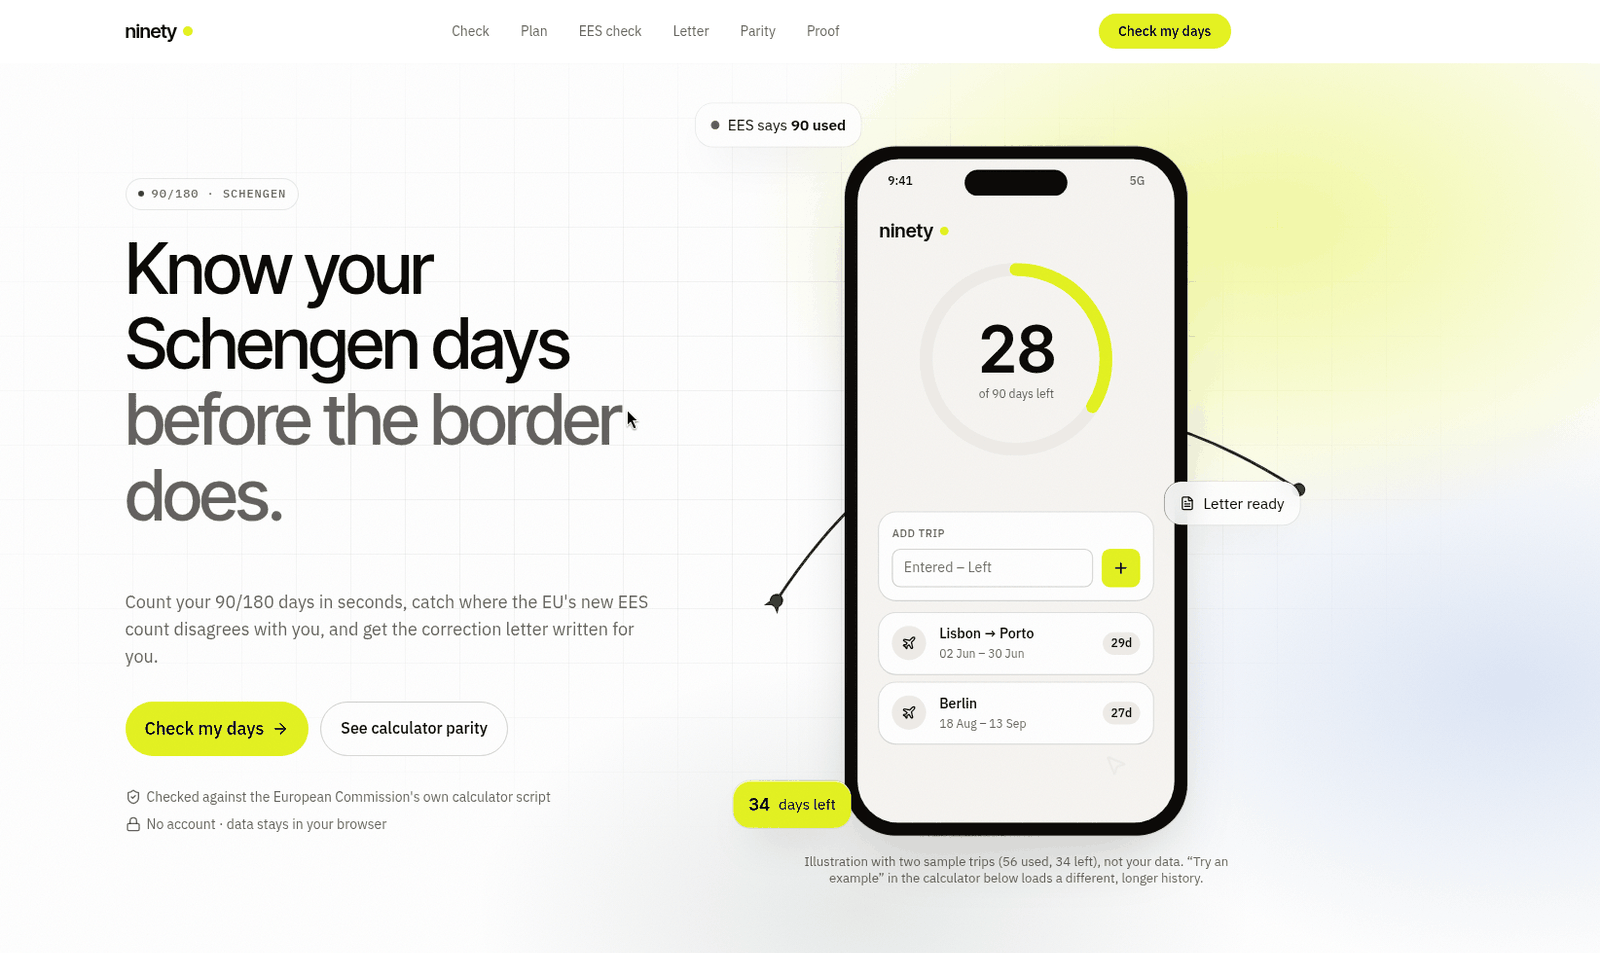
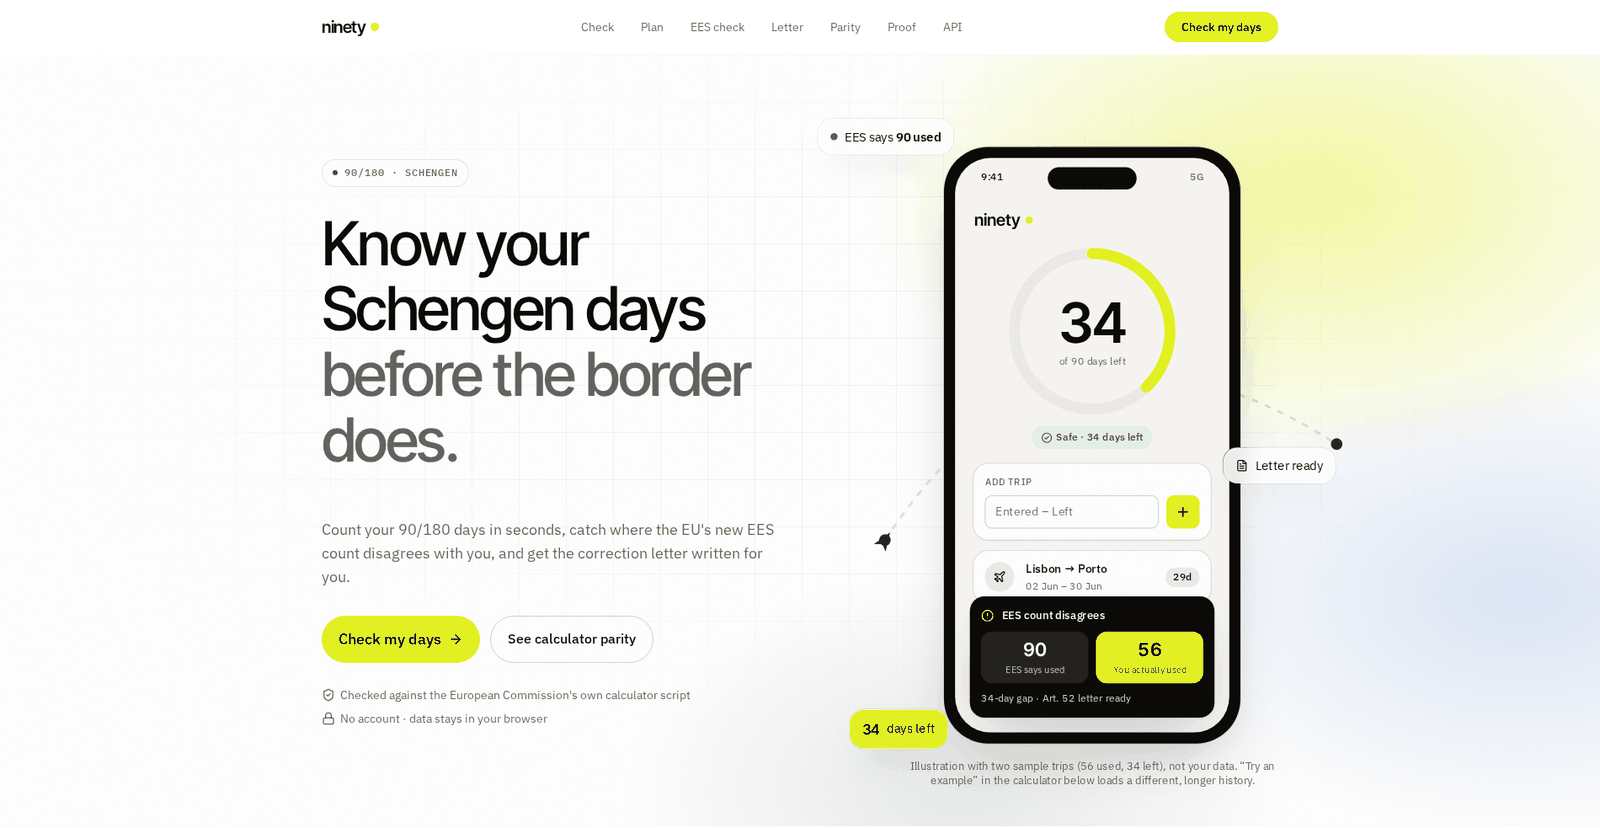
Show the finding code after its label, clearer TS42 plan, new hero shot
- /ees chips: 'Days-used figures differ · figure-differs' (code in small monospace); TS13 reads the codes
- TS42 plan opens exactly /?today=2024-08-27, never fresh=1
- LOOP: #63 TS13 recorded as a test-contract catch, not an app bug
- Hero screenshot from a local build with the API link

diff --git a/src/components/EesToLetter.test.tsx b/src/components/EesToLetter.test.tsx
@@ -32,7 +32,7 @@ describe("/ees → /letter", () => {
     expect((screen.getByTestId("letter-records") as HTMLTextAreaElement).value).toBe("2026-01-02 2026-03-31");
   });
 
-  it("finding chips use words, not machine codes (manual QA: a raw 'figure-differs' chip)", async () => {
+  it("finding chips lead with words and show the code after them (manual QA: a raw 'figure-differs' chip; TS13 reads the code)", async () => {
     query = "scenario=near-limit";
     render(<EesPanel />);
     fireEvent.change(screen.getByTestId("ees-days-used"), { target: { value: "95" } });
@@ -41,7 +41,9 @@ describe("/ees → /letter", () => {
     const chips = screen.getAllByTestId("ees-code");
     expect(chips.length).toBeGreaterThan(0);
     for (const chip of chips) {
-      expect(chip.textContent).not.toContain(chip.getAttribute("data-code") ?? "");
+      const code = chip.getAttribute("data-code") ?? "";
+      expect(chip.textContent).toMatch(new RegExp(`^[A-Z][^·]+ · ${code}$`));
+      expect(chip.querySelector("[data-testid=ees-code-id]")?.textContent).toBe(code);
     }
   });
 });

diff --git a/src/components/EesPanel.tsx b/src/components/EesPanel.tsx
@@ -144,8 +144,10 @@ export function EesPanel() {
                       {result.codes.length === 0 ? <li className="rounded-pill bg-paper px-2.5 py-0.5 text-xs text-ink">No findings</li> : null}
                       {result.codes.map((code) => (
                         <li key={code} data-testid="ees-code" data-code={code} title={`Code: ${code}`} className="inline-flex items-center gap-1.5 rounded-pill bg-paper px-2.5 py-0.5 text-xs font-medium text-ink">
-                          {/* Human wording only; the machine code stays in data-code and the tooltip for bug reports. */}
+                          {/* Human wording first; the code follows in small monospace so bug reports and tests can quote it. */}
                           {CODE_LABEL[code] ?? "Other finding"}
+                          <span aria-hidden className="text-ink-hushed">{" · "}</span>
+                          <code data-testid="ees-code-id" className="font-mono text-[11px] font-normal text-ink-hushed">{code}</code>
                         </li>
                       ))}
                     </ul>

diff --git a/LOOP.md b/LOOP.md
@@ -1,12 +1,12 @@
 # The TestSprite loop
 
-Generated 2026-10-21T00:37:28.766Z by `scripts/loop-proof.mjs` from `testsprite test result --history` (1841 runs). Do not edit by hand.
+Generated 2026-10-21T01:04:53.432Z by `scripts/loop-proof.mjs` from `testsprite test result --history` (1884 runs). Do not edit by hand.
 
 Counts cover the tests listed in `testsprite_tests/test-ids.json`. Runs of tests that were later replaced (the first TS09/TS10) are not included, so an execution can show fewer tests than the suite had at the time.
 
 ## Red, then green
 
-14 PRs have a red execution, then a green one, in the run history: 6 app defects (#8, #14, #39, #41, #55, #57), 1 UX loading state, not a wrong number (#60), 6 test plan or CI (#18, #32, #36, #37, #38, #43), 1 blocked (#44). 11 of these 14 history rows also failed on the GitHub check; #37, #38, #44 did not. Adding #22, red on the GitHub check but missing from this history because its failing test was later replaced, gives 12: the red-then-green count in LOOP-ITERATIONS.md and the README.
+Red, green not yet: #63. 14 PRs have a red execution, then a green one, in the run history: 6 app defects (#8, #14, #39, #41, #55, #57), 1 UX loading state, not a wrong number (#60), 6 test plan or CI (#18, #32, #36, #37, #38, #43), 1 blocked (#44). 11 of these 14 history rows also failed on the GitHub check; #37, #38, #44 did not. Adding #22, red on the GitHub check but missing from this history because its failing test was later replaced, gives 12: the red-then-green count in LOOP-ITERATIONS.md and the README.
 
 The two counts differ for a reason: the "Red run" fraction is from the run history and counts only the tests still in `test-ids.json`; the "GitHub check" column quotes the PR's `TestSprite V3` status word for word, which counted every test the run had. The README quotes the GitHub check.
 
@@ -26,10 +26,12 @@ The two counts differ for a reason: the "Red run" fraction is from the run histo
 | [#55](https://github.com/mohamedwael201193/ninety/pull/55) | App defect | 2026-10-20T08:51Z, 34/35 | TS41 | 34/35 passed · 1 failed; 32/35 passed · 2 failed · 1 blocked; 32/35 passed · 3 failed | 2026-10-20T11:56Z, 35/35 |
 | [#57](https://github.com/mohamedwael201193/ninety/pull/57) | App defect | 2026-10-20T21:56Z, 34/43 | TS02, TS45, TS46, TS47, TS48, TS49, TS50, TS51, TS52 | 34/43 passed · 8 failed · 1 blocked; 42/43 passed · 1 failed | 2026-10-20T22:09Z, 43/43 |
 | [#60](https://github.com/mohamedwael201193/ninety/pull/60) | UX loading state (not a wrong number) | 2026-10-20T22:59Z, 42/43 | TS42 | 42/43 passed · 1 failed | 2026-10-20T23:16Z, 43/43 |
+| [#63](https://github.com/mohamedwael201193/ninety/pull/63) | Test plan or CI | 2026-10-21T00:47Z, 41/43 | TS13, TS42 | `41/43 passed · 2 failed` on 5a7cc22 (PR open when generated) | not yet |
 
 ## Notes
 
 - Classified as a blank loading state (UX), not a wrong number. TS42 (leap-day stay leaves the window on day 181) failed once on PR #60 at commit 1abce4c (42/43, [execution](https://www.testsprite.com/dashboard-v3/o/1b474b7a-30a8-51f3-9b61-fd8a3c733650/projects/bd039118-0c25-4707-b018-b25619a37fce/execution/1f423c16-9271-4530-bbd6-11c6ec403bef)): the agent read the Days used cell as empty. A CLI rerun of TS42 alone against production passed (run 3f1d1a94-9544-4e94-9688-5ace96c0d741). Playwright never saw a wrong number, but with the CPU slowed 20x the status area was an empty skeleton for about 3 s, and the server HTML said only "Loading…" ([timeline](docs/evidence/testsprite/ts42-pr60/production-throttled-timeline.txt)). Fixed on #60: until the trips load, the Days used and Days left tiles say "Counting your saved trips…" ([red](docs/evidence/testsprite/ts42-pr60/vitest-red.txt), [green](docs/evidence/testsprite/ts42-pr60/vitest-green.txt)). The next full run, on 9a0c897 with the fix, was "All 43 tests passed" ([execution](https://www.testsprite.com/dashboard-v3/o/1b474b7a-30a8-51f3-9b61-fd8a3c733650/projects/bd039118-0c25-4707-b018-b25619a37fce/execution/eba1bf9c-2c9c-4a6a-8711-79b4955b870a)), and #60 merged as 9f781f6.
+- Test-contract catch, not an app bug. On PR #63 at 5a7cc22 (41/43, [execution](https://www.testsprite.com/dashboard-v3/o/1b474b7a-30a8-51f3-9b61-fd8a3c733650/projects/bd039118-0c25-4707-b018-b25619a37fce/execution/e26baa18-c6da-452f-ae44-7f2a9d0a10ff)) TS13 failed because our manual-QA change replaced the raw finding codes on /ees with human wording, and the plan relies on the codes (data-codes 'figure-differs exit-dates-disagree'). The app's answer was right (Playwright on the preview: the same data-codes, no 'Likely missing entry'). TestSprite caught that the wording change broke the contract the test reads; the chips now show the wording followed by the code in small monospace. In the same run TS42 failed because the agent opened /?today=2024-08-27&fresh=1, which the plan forbids; its own DOM snapshot shows Days used = 0 with no trips (not blank), so this was an agent step error. The TS42 plan now states the exact URL first (plan put, free).
 
 ## Every execution
 
@@ -146,3 +148,4 @@ The two counts differ for a reason: the "Red run" fraction is from the run histo
 | 2026-10-20T23:16 | [#60](https://github.com/mohamedwael201193/ninety/pull/60) | 43/43 | none |
 | 2026-10-20T23:44 | [#61](https://github.com/mohamedwael201193/ninety/pull/61) | 43/43 | none |
 | 2026-10-21T00:12 | [#62](https://github.com/mohamedwael201193/ninety/pull/62) | 43/43 | none |
+| 2026-10-21T00:47 | [#63](https://github.com/mohamedwael201193/ninety/pull/63) | 41/43 | TS13, TS42 |

diff --git a/docs/evidence/EVIDENCE_INDEX.md b/docs/evidence/EVIDENCE_INDEX.md
@@ -6,7 +6,7 @@ Every TestSprite run link, screenshot and report gathered for Ninety is kept her
 
 - PR [#61](https://github.com/mohamedwael201193/ninety/pull/61), merged as `392a265`: 43/43 ([execution](https://www.testsprite.com/dashboard-v3/o/1b474b7a-30a8-51f3-9b61-fd8a3c733650/projects/bd039118-0c25-4707-b018-b25619a37fce/execution/d5ce97c4-05b4-4d90-b30f-7b62d893514a)).
 - PR [#62](https://github.com/mohamedwael201193/ninety/pull/62), merged as `a777c3b`: 43/43 ([execution](https://www.testsprite.com/dashboard-v3/o/1b474b7a-30a8-51f3-9b61-fd8a3c733650/projects/bd039118-0c25-4707-b018-b25619a37fce/execution/b43fc678-1b47-4f4f-9c4c-cd08eb76daac)); `TestSprite backend (28 API tests)` green on the PR ([run](https://github.com/mohamedwael201193/ninety/actions/runs/39519798095/job/118960558605)) and on `main` ([run](https://github.com/mohamedwael201193/ninety/actions/runs/39520342113/job/118962382936)). Since #62 both `TestSprite V3` and `TestSprite backend (28 API tests)` are required checks on `main`.
-- The README screenshots are in [`docs/screens/`](../screens/). The EES check, letter and parity shots were taken from a local production build of the branch after #62; the others from production.
+- The README screenshots are in [`docs/screens/`](../screens/). The hero, EES check, letter and parity shots were taken from a local production build of the PR #63 branch; the others from production.
 - [`fresh-band/`](fresh-band/): the `/?fresh=1` band showing the old count, reproduced and fixed in #62.
 - `receipts/final-vitest.txt`: Vitest after these changes (367 passed, 3 skipped).
 

diff --git a/README.md b/README.md
@@ -11,7 +11,7 @@
 </div>
 
 <p align="center">
-  <img src="docs/screens/hero.png" alt="Ninety home page: a phone mock-up shows 28 of 90 days left, with an EES says 90 used chip" width="49%">
+  <img src="docs/screens/hero.png" alt="Ninety home page: a phone mock-up shows 34 of 90 days left and an EES count disagrees card, 90 vs 56" width="49%">
   <img src="docs/screens/calculator.png" alt="The calculator with the example history: days used, days left and the trip list" width="49%">
 </p>
 <p align="center">
